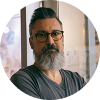
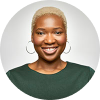
replaced faker with local dummy data

diff --git a/components/Suggestions.js b/components/Suggestions.js
@@ -1,17 +1,12 @@
-import { useEffect, useState } from "react";
-import faker from "faker";
+import Suggestion from "./Suggestion";
+import avatar13 from "../assets/13.png";
+import avatar14 from "../assets/14.png";
+import avatar15 from "../assets/15.png";
+import avatar16 from "../assets/16.png";
+import avatar17 from "../assets/17.png";
 
 function Suggestions() {
-  const [suggestions, setSuggestions] = useState([]);
-
-  useEffect(() => {
-    const suggestions = [...Array(5)].map((_, i) => ({
-      ...faker.helpers.contextualCard(),
-      id: i,
-    }));
-
-    setSuggestions(suggestions);
-  }, []);
+  const avatars = [avatar13, avatar14, avatar15, avatar16, avatar17];
 
   return (
     <div className="mt-4 ml-10">
@@ -19,26 +14,15 @@ function Suggestions() {
         <h3 className="text-sm font-bold text-gray-400">Suggestions for you</h3>
         <button className="text-gray-600 font-semibold">See All</button>
       </div>
-
-      {suggestions.map((profile) => (
-        <div
-          key={profile.id}
-          className="flex items-center justify-between mt-3"
-        >
-          <img
-            className="w-10 h-10 rounded-full border p-[2px]"
-            src={profile.avatar}
-            alt=""
-          />
-          <div className="flex-1 ml-4">
-            <h2 className="font-semibold text-sm">{profile.username}</h2>
-            <h3 className="text-xs text-gray-400">
-              Works at {profile.company.name}
-            </h3>
-          </div>
-          <button className="text-blue-400 text-xs font-bold">Follow</button>
-        </div>
-      ))}
+      <Suggestion img={avatar13} username="janecooper" company="Microsoft" />
+      <Suggestion img={avatar14} username="cryptopunk1010" company="Coinbase" />
+      <Suggestion img={avatar15} username="svan79" company="Savannah Realty" />
+      <Suggestion
+        img={avatar16}
+        username="toddbrinks"
+        company="Uptown Design"
+      />
+      <Suggestion img={avatar17} username="darrellw90" company="Alphabet" />
     </div>
   );
 }

diff --git a/components/Stories.js b/components/Stories.js
@@ -22,21 +22,21 @@ function Stories() {
         <Story
           img={session.user.image}
           username={session.user.username}
-          session
+          currUser
         />
       )}
-      <Story img={avatar1} username="test" />
-      <Story img={avatar8} username="test" />
-      <Story img={avatar3} username="test" />
-      <Story img={avatar10} username="test" />
-      <Story img={avatar5} username="test" />
-      <Story img={avatar6} username="test" />
-      <Story img={avatar7} username="test" />
-      <Story img={avatar2} username="test" />
-      <Story img={avatar9} username="test" />
-      <Story img={avatar4} username="test" />
-      <Story img={avatar11} username="test" />
-      <Story img={avatar12} username="test" />
+      <Story img={avatar1} username="cam42" />
+      <Story img={avatar8} username="raffik" />
+      <Story img={avatar3} username="brooklyn" />
+      <Story img={avatar10} username="jamesjones" />
+      <Story img={avatar5} username="leslie.io" />
+      <Story img={avatar6} username="surfguru" />
+      <Story img={avatar7} username="theresawebb" />
+      <Story img={avatar2} username="katem88" />
+      <Story img={avatar9} username="itsalflores" />
+      <Story img={avatar4} username="guyhawkings" />
+      <Story img={avatar11} username="floydmiles" />
+      <Story img={avatar12} username="travel4ever" />
     </div>
   );
 }

diff --git a/components/Story.js b/components/Story.js
@@ -1,19 +1,12 @@
 import Image from "next/image";
 
-function Story({ img, username, session }) {
+function Story({ img, username }) {
+  console.log("img", img);
   return (
     <div className="z-0">
-      {session ? (
-        <img
-          className="h-14 w-14 p-[1.5px] border-2 border-red-500 object-contain rounded-full cursor-pointer hover:scale-110 transition transform duration-200 ease-out"
-          src={img}
-          alt=""
-        />
-      ) : (
-        <div className="h-14 w-14 p-[1.5px] border-2 border-red-500 object-contain rounded-full cursor-pointer hover:scale-110 transition transform duration-200 ease-out">
-          <Image src={img} alt="" />
-        </div>
-      )}
+      <div className="relative h-14 w-14 p-[1.5px] border-2 border-red-500 object-contain rounded-full cursor-pointer hover:scale-110 transition transform duration-200 ease-out">
+        <Image src={img} alt="" layout="fill" className="rounded-full" />
+      </div>
       <p className="text-xs w-14 truncate text-center">{username}</p>
     </div>
   );

diff --git a/components/Suggestion.js b/components/Suggestion.js
@@ -1,0 +1,19 @@
+import React from "react";
+import Image from "next/image";
+
+const Suggestion = ({ img, username, company }) => {
+  return (
+    <div className="flex items-center justify-between mt-3">
+      <div className="relative w-10 h-10 rounded-full border p-[2px]">
+        <Image src={img} alt="" layout="fill" className="rounded-full" />
+      </div>
+      <div className="flex-1 ml-4">
+        <h2 className="font-semibold text-sm">{username}</h2>
+        <h3 className="text-xs text-gray-400">Works at {company}</h3>
+      </div>
+      <button className="text-blue-400 text-xs font-bold">Follow</button>
+    </div>
+  );
+};
+
+export default Suggestion;

diff --git a/next.config.js b/next.config.js
@@ -1,5 +1,5 @@
 module.exports = {
   images: {
-    domains: ["links.papareact.com"],
+    domains: ["links.papareact.com", "lh3.googleusercontent.com"],
   },
 };
